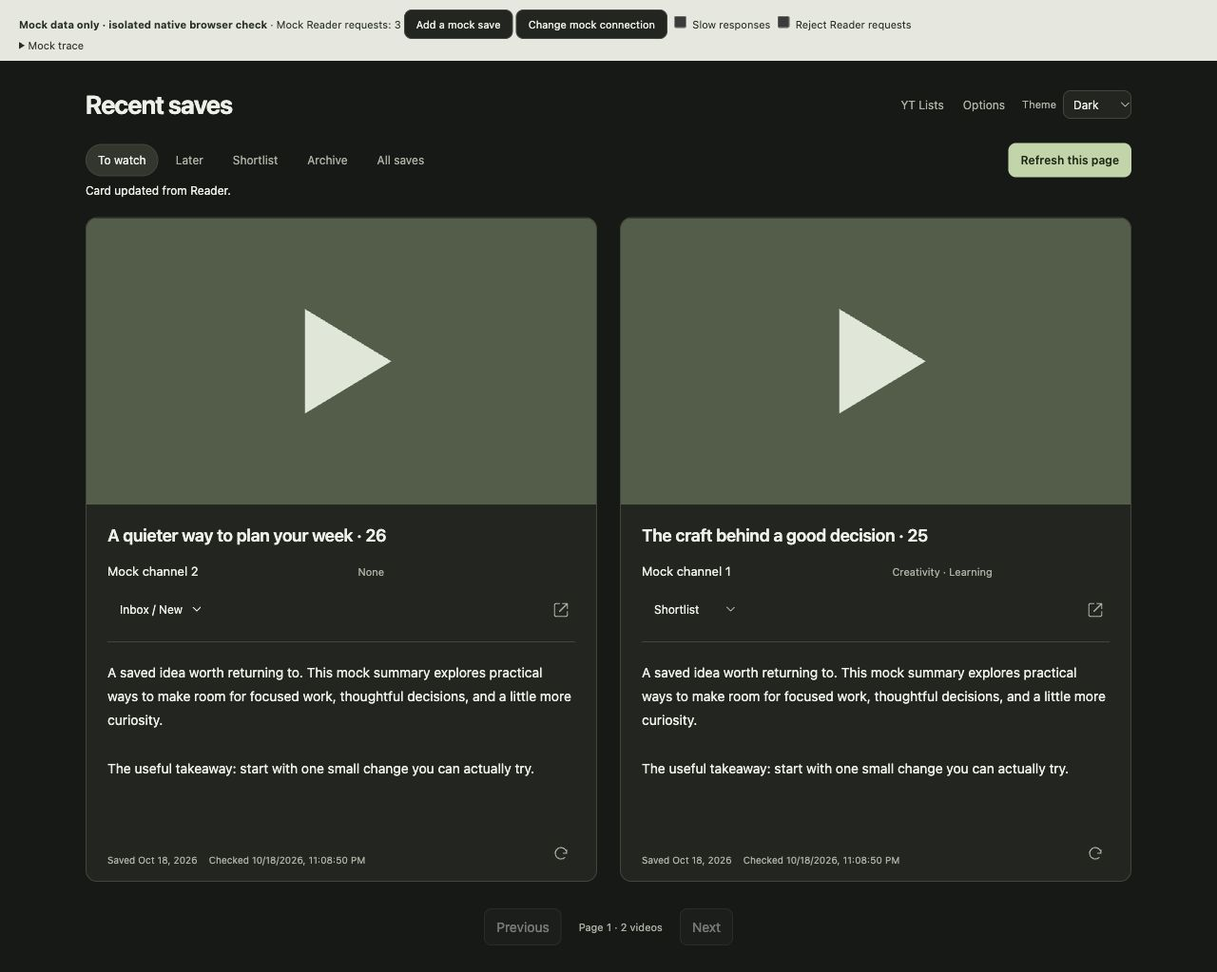
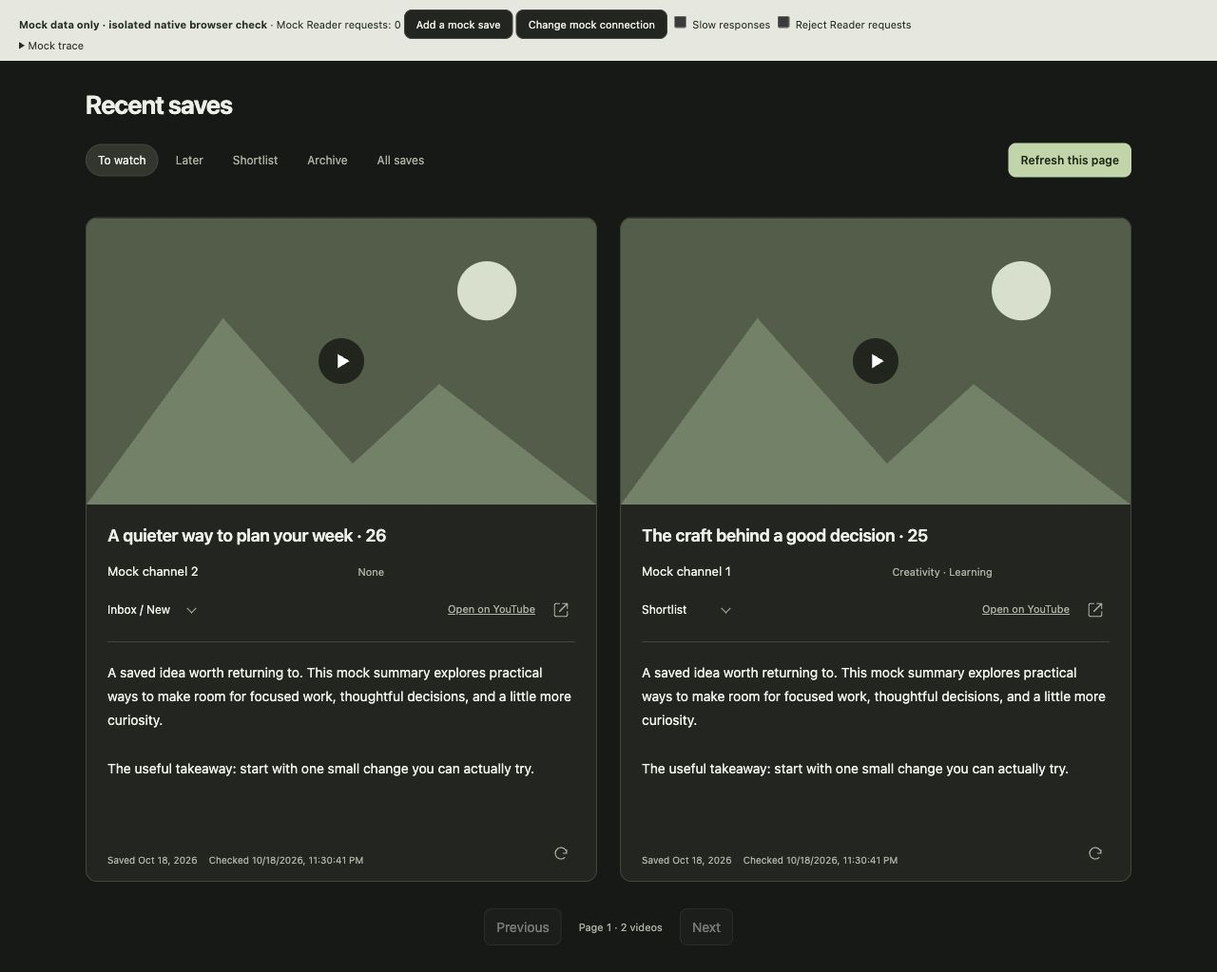
Trial click-to-load players and simplify Recent saves header

diff --git a/watch.js b/watch.js
@@ -41,6 +41,7 @@
     const svg = document.createElementNS('http://www.w3.org/2000/svg', 'svg'); svg.setAttribute('viewBox', '0 0 24 24'); svg.setAttribute('aria-hidden', 'true');
     const path = document.createElementNS('http://www.w3.org/2000/svg', 'path'); path.setAttribute('d', commands); svg.append(path); parent.append(svg);
   };
+  const player = globalThis.MVSWatchPlayer.create({ announce });
   const controls = () => {
     $('refresh').disabled = refreshing || pending.size > 0 || Boolean(deletion);
     $('refresh').textContent = refreshing ? 'Refreshing…' : 'Refresh this page';
@@ -51,10 +52,10 @@
   };
   const makeRow = item => {
     const card = node('article', '', null, 'video'); card.dataset.url = item.videoUrl;
-    const thumbnailLink = node('a', '', card, 'thumbnail-link');
-    thumbnailLink.href = item.videoUrl; thumbnailLink.target = '_blank'; thumbnailLink.rel = 'noopener noreferrer'; thumbnailLink.tabIndex = -1;
-    const image = node('img', '', thumbnailLink, 'thumbnail'); image.alt = ''; image.loading = 'lazy'; image.decoding = 'async'; image.width = 480; image.height = 270;
+    const mediaBox = node('div', '', card, 'video-media'), thumbnailButton = node('button', '', mediaBox, 'thumbnail-button'); thumbnailButton.type = 'button';
+    const image = node('img', '', thumbnailButton, 'thumbnail'); image.alt = ''; image.loading = 'lazy'; image.decoding = 'async'; image.width = 480; image.height = 270;
     image.referrerPolicy = 'no-referrer'; image.src = `https://i.ytimg.com/vi/${encodeURIComponent(new URL(item.videoUrl).searchParams.get('v'))}/mqdefault.jpg`;
+    const playPrompt = node('span', '', thumbnailButton, 'play-prompt'); playPrompt.setAttribute('aria-hidden', 'true'); icon(playPrompt, 'm9 6 10 6-10 6Z');
     const copy = node('div', '', card, 'video-copy'), heading = node('h2', '', copy), link = node('a', '', heading);
     link.href = item.videoUrl; link.target = '_blank'; link.rel = 'noopener noreferrer';
     const metadata = node('dl', '', copy, 'metadata');
@@ -67,8 +68,12 @@
     for (const [value, label] of Object.entries(C.locations)) { const option = node('option', label, move); option.value = value; }
     const removeGroup = node('optgroup', '', move); removeGroup.label = 'Remove document';
     const trash = node('option', 'Trash…', removeGroup, 'trash-option'); trash.value = 'trash';
-    const readerLink = node('a', '', locationRow, 'reader-link'); readerLink.target = '_blank'; readerLink.rel = 'noopener noreferrer'; readerLink.title = 'Open in Reader';
+    const locationActions = node('div', '', locationRow, 'location-actions');
+    const youtubeLink = node('a', 'Open on YouTube', locationActions, 'youtube-link'); youtubeLink.href = item.videoUrl; youtubeLink.target = '_blank'; youtubeLink.rel = 'noopener noreferrer';
+    const readerLink = node('a', '', locationActions, 'reader-link'); readerLink.target = '_blank'; readerLink.rel = 'noopener noreferrer'; readerLink.title = 'Open in Reader';
     icon(readerLink, 'M14 3h7v7M10 14 21 3M10 3H5a2 2 0 0 0-2 2v14a2 2 0 0 0 2 2h14a2 2 0 0 0 2-2v-5');
+    const closePlayer = node('button', '', locationActions, 'player-close'); closePlayer.type = 'button'; closePlayer.title = 'Close player'; closePlayer.setAttribute('aria-label', 'Close YouTube player'); closePlayer.hidden = true;
+    icon(closePlayer, 'm6 6 12 12M6 18 18 6');
     const summary = node('p', '', copy, 'summary-text');
     const footer = node('div', '', copy, 'card-footer'), footerDetails = node('div', '', footer, 'footer-details');
     const note = node('p', '', footerDetails, 'row-status'); note.setAttribute('role', 'status');
@@ -82,15 +87,24 @@
       else if (destination) void mutate(item.videoUrl, destination);
     });
     refresh.addEventListener('click', () => void refreshCard(item.videoUrl));
-    return { card, link, channel, tags, date, checked, placeholder, summary, move, readerLink, refresh, note };
+    thumbnailButton.addEventListener('click', () => {
+      const current = items.find(row => row.videoUrl === item.videoUrl); if (!current || !loaded || deletion) return;
+      player.open({ videoUrl: current.videoUrl, title: current.title, host: mediaBox, trigger: thumbnailButton, close: closePlayer });
+    });
+    closePlayer.addEventListener('click', () => player.clear({ focus: true }));
+    closePlayer.addEventListener('keydown', event => { if (event.key === 'Escape') { event.preventDefault(); player.clear({ focus: true }); } });
+    return { card, link, channel, tags, date, checked, placeholder, summary, move, readerLink, refresh, note, thumbnailButton, youtubeLink };
   };
   const render = () => {
     const order = items.map(item => item.videoUrl);
+    player.keep(order);
     for (const url of rows.keys()) if (!order.includes(url)) rows.delete(url);
     const cards = [];
     for (const item of items) {
       let row = rows.get(item.videoUrl); if (!row) { row = makeRow(item); rows.set(item.videoUrl, row); }
       row.link.textContent = item.title || `YouTube video · ${new URL(item.videoUrl).searchParams.get('v')}`;
+      row.thumbnailButton.setAttribute('aria-label', `Load YouTube player for ${item.title || 'video'}`); row.thumbnailButton.title = 'Load YouTube player';
+      row.youtubeLink.setAttribute('aria-label', `Open ${item.title || 'video'} on YouTube`);
       row.channel.textContent = item.author || 'Not retained';
       const tags = Array.isArray(item.tags) ? W.tags(item.tags) : null;
       row.tags.textContent = tags ? tags.length ? tags.slice(0, 3).join(' · ') + (tags.length > 3 ? ` +${tags.length - 3}` : '') : 'None' : 'Not fetched';
@@ -115,7 +129,10 @@
       row.note.textContent = pending.has(item.videoUrl) ? 'Working…' : errors.get(item.videoUrl) || (!item.readerId ? 'Reader ID not retained; open the video page to link it.' : '');
       row.note.dataset.error = String(errors.has(item.videoUrl)); cards.push(row.card);
     }
-    if (Array.from(grid.children).map(n => n.dataset.url).join('|') !== order.join('|')) grid.replaceChildren(...cards);
+    if (Array.from(grid.children).map(n => n.dataset.url).join('|') !== order.join('|')) {
+      // Reparenting an iframe can restart navigation. Unmount before reordering.
+      player.clear(); grid.replaceChildren(...cards);
+    }
     grid.hidden = loaded && items.length === 0; $('empty').hidden = !loaded || items.length > 0;
     grid.setAttribute('aria-busy', String(!loaded)); controls();
   };
@@ -128,7 +145,7 @@
     if (clearStatus && !refreshing && pending.size === 0 && !deletion) announce('');
   };
   const reloadLocal = () => { clearTimeout(reloadTimer); reloadTimer = setTimeout(() => { if (!refreshing && !pending.size && !deletion) void load(); }, 100); };
-  const changePage = () => { refreshRequest++; refreshing = false; loaded = false; render(); void load({ clearStatus: true }); };
+  const changePage = () => { player.clear(); refreshRequest++; refreshing = false; loaded = false; render(); void load({ clearStatus: true }); };
   const refreshCard = async url => {
     const item = items.find(row => row.videoUrl === url);
     if (!item?.readerId || !loaded || refreshing || pending.size || deletion) return;
@@ -189,7 +206,7 @@
       else errors.delete(item.videoUrl);
     }
     if (request !== refreshRequest) return;
-    refreshing = false; await load(); announce(failure ? messageFor(failure) : count ? 'This page is up to date with Reader.' : 'No linked Reader IDs on this page. Open a video page to link an older save.', Boolean(failure));
+    refreshing = false; await load(); announce(failure ? messageFor(failure) : count ? `Checked ${count} video${count === 1 ? '' : 's'} in Reader.` : 'No linked Reader IDs on this page. Open a video page to link an older save.', Boolean(failure));
   });
   for (const [value, label] of Object.entries(W.filters)) {
     const button = node('button', label, $('filters')); button.type = 'button'; button.dataset.filter = value;
@@ -197,10 +214,9 @@
   }
   $('previous').addEventListener('click', () => { if (cursors.length > 1) { cursors.pop(); changePage(); } });
   $('next').addEventListener('click', () => { if (nextCursor) { cursors.push(nextCursor); changePage(); } });
-  const applyTheme = () => { document.documentElement.dataset.theme = theme === 'system' ? media.matches ? 'dark' : 'light' : theme; $('theme').value = theme; };
+  const applyTheme = () => { document.documentElement.dataset.theme = theme === 'system' ? media.matches ? 'dark' : 'light' : theme; };
   media.addEventListener('change', applyTheme);
   chrome.storage.local.get({ readerPanelTheme: 'system' }, data => { theme = ['system', 'dark', 'light'].includes(data.readerPanelTheme) ? data.readerPanelTheme : 'system'; applyTheme(); });
-  $('theme').addEventListener('change', () => chrome.storage.local.set({ readerPanelTheme: $('theme').value }));
   chrome.storage.onChanged.addListener((changes, area) => {
     if (area !== 'local') return;
     if (changes.readerPanelTheme) { theme = ['system', 'dark', 'light'].includes(changes.readerPanelTheme.newValue) ? changes.readerPanelTheme.newValue : 'system'; applyTheme(); }

diff --git a/watch.css b/watch.css
@@ -9,15 +9,11 @@ button,select{color:var(--text);background:var(--surface);border:1px solid var(-
 button,select{cursor:pointer}
 button:disabled,select:disabled{opacity:.45;cursor:default}
 button:focus-visible,a:focus-visible,select:focus-visible{outline:2px solid var(--focus);outline-offset:3px}
-button:not(:disabled):hover,a.quiet:hover{filter:brightness(.94)}
+button:not(:disabled):hover{filter:brightness(.94)}
 a{color:inherit}
-a.quiet{text-decoration:none;padding:6px 2px;color:var(--muted)}
 .watch-app{max-width:1160px;margin:auto;padding:30px 30px 28px}
 .page-header{display:flex;align-items:center;justify-content:space-between;gap:20px;margin-bottom:24px}
 h1{font-size:27px;letter-spacing:-.035em;line-height:1.2;margin:0;font-weight:650}
-.header-actions{display:flex;align-items:center;gap:16px;flex-shrink:0;font-size:12px}
-.theme-label{display:flex;gap:7px;align-items:center;font-size:11px;color:var(--muted)}
-.theme-label select{font-size:12px;padding:6px}
 .toolbar{display:flex;align-items:center;justify-content:space-between;gap:14px;flex-wrap:wrap}
 .filters{display:flex;gap:5px;flex-wrap:wrap}
 .filters button{background:transparent;border-color:transparent;color:var(--muted);border-radius:20px;padding:7px 12px;font-size:12px}
@@ -28,7 +24,12 @@ h1{font-size:27px;letter-spacing:-.035em;line-height:1.2;margin:0;font-weight:65
 #status[data-error=true],.row-status[data-error=true],.dialog-status[data-error=true]{color:var(--error)}
 .videos{display:grid;grid-template-columns:repeat(2,minmax(0,1fr));gap:28px 24px;align-items:start;min-height:180px}
 .video{background:var(--surface);border:1px solid var(--line);border-radius:12px;overflow:hidden;min-width:0}
-.thumbnail-link{display:block}
+.video-media{position:relative;aspect-ratio:16/9;background:var(--chip)}
+.thumbnail-button{display:block;width:100%;border:0;border-radius:0;padding:0;background:transparent}
+.thumbnail-button:focus-visible{outline-offset:-4px}
+.video-media iframe{position:absolute;inset:0;width:100%;height:100%;border:0}
+.play-prompt{position:absolute;inset:0;display:grid;place-items:center;pointer-events:none}
+.play-prompt svg{width:48px;height:48px;padding:9px;border-radius:50%;background:#0009;fill:#fff}
 .thumbnail{display:block;width:100%;height:auto;aspect-ratio:16/9;object-fit:cover;background:var(--chip)}
 .video-copy{padding:20px 22px 14px}
 .video h2{font-size:18px;line-height:1.4;font-weight:600;letter-spacing:-.015em;margin:0 0 15px;overflow-wrap:anywhere}
@@ -39,10 +40,13 @@ h1{font-size:27px;letter-spacing:-.035em;line-height:1.2;margin:0;font-weight:65
 .metadata dd{margin:0;overflow-wrap:anywhere}
 .metadata .channel-name{font-size:13px;color:var(--text)}
 .location-row{display:flex;align-items:center;justify-content:space-between;gap:12px;padding-bottom:18px;border-bottom:1px solid var(--line)}
-.location-row label{display:flex;gap:9px;align-items:center;font-size:11px;color:var(--muted);min-width:0}
-.location-row select{font-size:12px;padding:6px 8px;max-width:200px;min-width:100px;background:transparent;border-color:transparent}
+.location-row label{position:relative;display:flex;align-items:center;font-size:11px;color:var(--muted);min-width:0}
+.location-row label::after{content:'';position:absolute;right:8px;top:calc(50% - 4px);width:6px;height:6px;border-right:1px solid currentColor;border-bottom:1px solid currentColor;transform:rotate(45deg);pointer-events:none}
+.location-row select{appearance:none;-webkit-appearance:none;font-size:12px;padding:6px 26px 6px 0;max-width:200px;min-width:100px;background:transparent;border-color:transparent;border-left-width:0;border-right-width:0;text-indent:0}
 .location-row select:hover:not(:disabled){background:var(--chip);border-color:var(--line)}
 .location-row select:focus-visible{background:var(--chip)}
+.location-actions{display:flex;align-items:center;gap:4px;flex-shrink:0}
+.youtube-link{font-size:11px;color:var(--muted);white-space:nowrap;padding:6px}
 .trash-option{color:var(--error)}
 .summary-text{font-size:14px;line-height:1.8;white-space:pre-wrap;overflow-wrap:anywhere;margin:19px 0 12px;min-height:76px}
 .summary-text[data-empty=true]{color:var(--muted);font-size:13px}
@@ -51,9 +55,9 @@ h1{font-size:27px;letter-spacing:-.035em;line-height:1.2;margin:0;font-weight:65
 .footer-meta{display:flex;flex-wrap:wrap;align-content:end;column-gap:12px;height:32px;overflow:auto;font-size:10px;line-height:16px;color:var(--muted)}
 .footer-meta>*{overflow-wrap:anywhere}
 .row-status{font-size:11px;line-height:16px;color:var(--muted);margin:0;height:48px;overflow:auto;min-width:0;align-content:end}
-.card-refresh,.reader-link{flex-shrink:0;display:grid;place-items:center;width:32px;height:32px;padding:7px;color:var(--muted);background:transparent;border:1px solid transparent;border-radius:8px}
-.card-refresh:hover:not(:disabled),.reader-link:hover{background:var(--chip)}
-.card-refresh svg,.reader-link svg{display:block;width:18px;height:18px;fill:none;stroke:currentColor;stroke-width:1.6;stroke-linecap:round;stroke-linejoin:round}
+.card-refresh,.reader-link,.player-close{flex-shrink:0;display:grid;place-items:center;width:32px;height:32px;padding:7px;color:var(--muted);background:transparent;border:1px solid transparent;border-radius:8px}
+.card-refresh:hover:not(:disabled),.reader-link:hover,.player-close:hover{background:var(--chip)}
+.card-refresh svg,.reader-link svg,.player-close svg{display:block;width:18px;height:18px;fill:none;stroke:currentColor;stroke-width:1.6;stroke-linecap:round;stroke-linejoin:round}
 .pagination{display:flex;align-items:center;justify-content:center;gap:18px;margin-top:28px}
 .pagination span{font-size:11px;color:var(--muted)}
 .empty{min-height:260px;padding:56px 24px;text-align:center;border:1px dashed var(--line);border-radius:12px;color:var(--muted)}
@@ -72,8 +76,8 @@ dialog h2{font-size:20px;margin:0 0 16px}
 .destructive{background:var(--error);color:var(--surface);border-color:transparent}
 @media(max-width:740px){
  .watch-app{padding:22px 16px}.page-header{align-items:flex-start;gap:16px;flex-direction:column;margin-bottom:20px}
- .header-actions{gap:16px}.videos{grid-template-columns:minmax(0,1fr);gap:22px}h1{font-size:25px}
+ .videos{grid-template-columns:minmax(0,1fr);gap:22px}h1{font-size:25px}
  .toolbar{gap:10px}.filters{gap:1px}.filters button{padding:6px 9px}.notice-area{height:48px}
  .video-copy{padding:18px 18px 12px}.video h2{font-size:17px}.location-row{gap:8px}.location-row label{gap:7px}
 }
-@media(max-width:360px){.metadata{gap:8px}.header-actions{gap:12px}}
+@media(max-width:360px){.metadata{gap:8px}.location-row{align-items:flex-start;flex-direction:column}}

diff --git a/tests/watch-player.test.js b/tests/watch-player.test.js
@@ -1,0 +1,67 @@
+const test = require('node:test');
+const assert = require('node:assert/strict');
+const vm = require('node:vm');
+const fs = require('node:fs');
+const path = require('node:path');
+const A = 'https://www.youtube.com/watch?v=alpha', B = 'https://www.youtube.com/watch?v=beta';
+class Events {
+  listeners = new Map();
+  addEventListener(type, fn) { const rows = this.listeners.get(type) || []; rows.push(fn); this.listeners.set(type, rows); }
+  removeEventListener(type, fn) { this.listeners.set(type, (this.listeners.get(type) || []).filter(row => row !== fn)); }
+  emit(type) { for (const fn of this.listeners.get(type) || []) fn(); }
+}
+function fixture() {
+  const document = new Events(), window = new Events(), created = [], status = [];
+  document.hidden = false;
+  const element = tag => Object.assign(new Events(), { tag, hidden: false, isConnected: true, children: [], width: 480, height: 270,
+    append(child) { child.parent = this; this.children.push(child); },
+    remove() { if (this.parent) this.parent.children = this.parent.children.filter(child => child !== this); this.parent = null; this.isConnected = false; },
+    getBoundingClientRect() { return { width: this.width, height: this.height }; },
+    focus() { document.activeElement = this; },
+  });
+  document.createElement = tag => { const row = element(tag); created.push(row); return row; };
+  const context = vm.createContext({ document, window, URL });
+  for (const file of ['reader-core.js', 'watch-player.js']) vm.runInContext(fs.readFileSync(path.join(__dirname, '..', file), 'utf8'), context);
+  const player = context.MVSWatchPlayer.create({ document, window, announce: (...args) => status.push(args) });
+  const target = (videoUrl = A) => ({ videoUrl, title: 'A saved video', host: element('div'), trigger: element('button'), close: Object.assign(element('button'), { hidden: true }) });
+  return { document, window, player, target, created, status, mounted: () => created.filter(row => row.parent) };
+}
+
+test('no player is created until explicit open; one native iframe has no autoplay or remote parent API', () => {
+  const f = fixture(), a = f.target(); assert.equal(f.created.length, 0);
+  assert.equal(f.player.open(a), true); const frame = f.mounted()[0], url = new URL(frame.src);
+  assert.equal(f.mounted().length, 1); assert.equal(frame.tag, 'iframe'); assert.equal(url.origin, 'https://www.youtube.com'); assert.equal(url.pathname, '/embed/alpha');
+  assert.equal(url.searchParams.get('autoplay'), '0'); assert.equal(url.searchParams.has('origin'), false); assert.equal(url.searchParams.has('enablejsapi'), false);
+  assert.equal(frame.referrerPolicy, 'strict-origin-when-cross-origin'); assert.equal(frame.title, 'YouTube player: A saved video');
+  assert.equal(a.trigger.hidden, true); assert.equal(a.close.hidden, false); assert.equal(f.document.activeElement, frame);
+});
+
+test('switching videos unmounts the previous frame; close returns focus to its own thumbnail', () => {
+  const f = fixture(), a = f.target(), b = f.target(B); f.player.open(a); const old = f.mounted()[0];
+  f.player.open(b); assert.equal(f.mounted().length, 1); assert.equal(old.parent, null); assert.equal(a.trigger.hidden, false); assert.equal(a.close.hidden, true);
+  assert.equal(f.player.currentUrl(), B); f.player.clear({ focus: true }); assert.equal(f.document.activeElement, b.trigger);
+  assert.equal(f.mounted().length, 0); assert.equal(b.trigger.hidden, false); assert.equal(b.close.hidden, true);
+});
+
+test('local redraw keeps a matching player; paging/filter removal, hidden page and pagehide unload it without automatic restoration', () => {
+  const f = fixture(), a = f.target(); f.player.open(a); const frame = f.mounted()[0];
+  f.player.keep([A, B]); assert.equal(f.mounted()[0], frame); f.player.keep([B]); assert.equal(f.mounted().length, 0);
+  f.player.open(a); f.document.hidden = true; f.document.emit('visibilitychange'); assert.equal(f.mounted().length, 0);
+  f.document.hidden = false; f.document.emit('visibilitychange'); assert.equal(f.mounted().length, 0);
+  f.player.open(a); f.window.emit('pagehide'); assert.equal(f.mounted().length, 0);
+});
+
+test('undersized or hidden targets do not start network; shrinking an active frame restores thumbnail and fallback feedback', () => {
+  const f = fixture(), a = f.target(); a.host.height = 199;
+  assert.equal(f.player.open(a), false); assert.equal(f.created.length, 0); assert.match(f.status.at(-1)[0], /Open on YouTube/);
+  a.host.height = 270; f.document.hidden = true; assert.equal(f.player.open(a), false); assert.equal(f.created.length, 0);
+  f.document.hidden = false; f.player.open(a); a.host.width = 199; f.window.emit('resize'); assert.equal(f.mounted().length, 0);
+});
+
+test('invalid URLs and detached targets are rejected, while stale frame errors cannot affect a later player', () => {
+  const f = fixture(), invalid = f.target('https://evil.test/watch?v=alpha'); assert.equal(f.player.open(invalid), false); assert.equal(f.created.length, 0);
+  invalid.videoUrl = A; invalid.host.isConnected = false; assert.equal(f.player.open(invalid), false);
+  const a = f.target(), b = f.target(B); f.player.open(a); const old = f.mounted()[0]; f.player.open(b); old.emit('error'); assert.equal(f.player.currentUrl(), B);
+  f.mounted()[0].emit('error'); assert.equal(f.player.currentUrl(), null); assert.equal(f.document.activeElement, b.trigger); assert.match(f.status.at(-1)[0], /could not be loaded/);
+  f.player.destroy(); assert.equal(f.window.listeners.get('resize').length, 0); assert.equal(f.document.listeners.get('visibilitychange').length, 0);
+});

diff --git a/watch-player.js b/watch-player.js
@@ -1,0 +1,49 @@
+/* One explicit, cross-origin player. No credentials, remote parent scripts or messages. */
+(() => {
+  const create = ({ document = globalThis.document, window = globalThis.window, announce = () => {} } = {}) => {
+    let active = null;
+    const fits = host => {
+      const bounds = host.getBoundingClientRect();
+      return bounds.width >= 200 && bounds.height >= 200;
+    };
+    const clear = ({ focus = false } = {}) => {
+      if (!active) return;
+      const previous = active; active = null;
+      previous.frame.remove(); previous.trigger.hidden = false; previous.close.hidden = true;
+      if (focus && previous.trigger.isConnected) previous.trigger.focus();
+    };
+    const open = target => {
+      const { videoUrl, title, host, trigger, close } = target;
+      if (globalThis.MVSReaderCore.canonical(videoUrl) !== videoUrl || !host.isConnected || document.hidden) return false;
+      clear();
+      if (!fits(host)) { announce('The player needs more space. Open on YouTube instead.', true); return false; }
+      const frame = document.createElement('iframe');
+      frame.title = `YouTube player: ${title || 'saved video'}`;
+      frame.referrerPolicy = 'strict-origin-when-cross-origin';
+      frame.src = `https://www.youtube.com/embed/${encodeURIComponent(new URL(videoUrl).searchParams.get('v'))}?autoplay=0&playsinline=1`;
+      active = { videoUrl, frame, host, trigger, close };
+      trigger.hidden = true; close.hidden = false;
+      frame.addEventListener('error', () => {
+        if (active?.frame !== frame) return;
+        clear({ focus: true }); announce('The player could not be loaded. Open on YouTube instead.', true);
+      });
+      host.append(frame); frame.focus();
+      // A cross-origin load event cannot establish playback or detect YouTube error 153.
+      announce('YouTube player opened.');
+      return true;
+    };
+    const keep = urls => { if (active && !urls.includes(active.videoUrl)) clear(); };
+    const hide = () => { if (document.hidden) clear(); };
+    const resize = () => {
+      if (!active || fits(active.host)) return;
+      const focus = document.activeElement === active.frame || document.activeElement === active.close;
+      clear({ focus }); announce('The player needs more space. Open on YouTube instead.', true);
+    };
+    const leave = () => clear();
+    document.addEventListener('visibilitychange', hide);
+    window.addEventListener('pagehide', leave); window.addEventListener('resize', resize);
+    return { open, clear, keep, currentUrl: () => active?.videoUrl || null,
+      destroy() { clear(); document.removeEventListener('visibilitychange', hide); window.removeEventListener('pagehide', leave); window.removeEventListener('resize', resize); } };
+  };
+  globalThis.MVSWatchPlayer = { create };
+})();

diff --git a/watch.html b/watch.html
@@ -5,7 +5,6 @@
   <main class="watch-app">
     <header class="page-header">
       <h1>Recent saves</h1>
-      <div class="header-actions"><a class="quiet" href="feed.html">YT Lists</a><a class="quiet" href="options.html">Options</a><label class="theme-label">Theme<select id="theme"><option value="system">System</option><option value="light">Light</option><option value="dark">Dark</option></select></label></div>
     </header>
     <section class="toolbar" aria-label="Recent saves controls"><div id="filters" class="filters" role="group" aria-label="Saved video views"></div><button id="refresh" class="primary" type="button">Refresh this page</button></section>
     <div class="notice-area"><p id="status" role="status" aria-live="polite">Loading your saved videos…</p></div>
@@ -14,5 +13,5 @@
     <nav class="pagination" aria-label="Recent saves pages"><button id="previous" type="button" disabled>Previous</button><span id="page-label">Page 1</span><button id="next" type="button" disabled>Next</button></nav>
   </main>
   <dialog id="deletion" aria-labelledby="delete-heading" aria-describedby="delete-effects"><form method="dialog"><p class="eyebrow">Reader document</p><h2 id="delete-heading">Delete from Reader?</h2><p id="delete-title" class="delete-title"></p><p id="delete-identity" class="identity"></p><p id="delete-effects">This deletes the Reader document, including its highlights and notes. The extension cannot undo it. Unsaved note drafts in other tabs stay there; copy them before reloading or closing those tabs.</p><p id="delete-status" class="dialog-status" role="status" aria-live="polite"></p><div class="dialog-actions"><button id="cancel-delete" type="button" autofocus>Cancel</button><button id="confirm-delete" class="destructive" type="button">Delete document</button></div></form></dialog>
-  <script src="reader-core.js"></script><script src="reader-watch-core.js"></script><script src="watch.js"></script>
+  <script src="reader-core.js"></script><script src="reader-watch-core.js"></script><script src="watch-player.js"></script><script src="watch.js"></script>
 </body></html>

diff --git a/README.md b/README.md
@@ -146,7 +146,7 @@ For Refresh, add `action=refresh`; `outcome=unauthorized` simulates a rejected r
 
 ## Recent saves
 
-Open **Recent saves** from the Reader panel’s More menu, the YT Lists sidebar, or Options. It collects videos saved through the extension, newest first, with **12 cards per page**, large 16:9 lazy thumbnails, full cached summaries expanded inline, and links to YouTube/Reader. Desktop uses two substantial cards side by side, with one column on narrow screens. Each card shows its title, a slightly larger channel name and compact tags without visible field labels. The flat native location selector keeps its arrow, hover/focus treatment and accessible name; Open in Reader is an icon with a tooltip. Saved date and Checked sit together at the bottom left, with refresh at the bottom right and reserved feedback space. There are no summary disclosures, video embeds or autoplay. System/Light/Dark follows the existing Reader theme preference.
+Open **Recent saves** from the Reader panel’s More menu, the YT Lists sidebar, or Options. It collects videos saved through the extension, newest first, with **12 cards per page**, large 16:9 lazy thumbnails, full cached summaries expanded inline, and links to YouTube/Reader. Desktop uses two substantial cards side by side, with one column on narrow screens. Each card shows its title, a slightly larger channel name and compact tags without visible field labels. The flat native location selector keeps a decorative arrow, hover/focus treatment and accessible name; its visible text aligns with the title/channel edge rather than retaining native internal padding; Open in Reader is an icon with a tooltip. Saved date and Checked sit together at the bottom left, with refresh at the bottom right and reserved feedback space. There are no summary disclosures or top-right navigation/theme controls. System/Light/Dark still follows the existing Reader preference, adjusted in Options elsewhere. Clicking a thumbnail deliberately loads a single inline YouTube player with autoplay off; **Open on YouTube** remains available. This is a bounded trial: live extension-origin playback is not yet verified.
 
 - **To watch** includes last-known Inbox/New, Later, Shortlist, and unknown locations. Verified Archive, Feed, missing and deleted documents are excluded. **Later**, **Shortlist**, **Archive**, and **All saves** offer separate views. All saves includes missing matches with an explicit label, but excludes confirmed deletions. “Library” is a Reader grouping, not a location value.
 - This is extension-owned save history, **not an import of Reader history**. One-time migration preserves only retained local YouTube save flags and their known IDs. Merely opening an externally saved document does not add it. Existing flags have an older 2,000-entry cap, so already-discarded saves cannot be reconstructed. Older entries may lack titles or Reader IDs; the UI says so. Link those on the video page using the existing manual Reader lookup. Recent saves itself never scans the Reader library, saves on opening, or fetches YouTube metadata while browsing.
@@ -157,8 +157,8 @@ Open **Recent saves** from the Reader panel’s More menu, the YT Lists sidebar,
 
 `tests/reader-watch.test.js` exercises the actual store with pinned `fake-indexeddb` and the worker/service with synthetic Reader fixtures. It covers migration/deduplication, history beyond 2,000 entries, bounded pagination/summary eviction, filters, exact-ID refresh, stale responses, budgets/429, verified moves/deletion, credential changes, trusted senders, quota failures and partial save success. Existing playback, save, note-draft and SPA regression tests run in the same suite.
 
-For an isolated browser check, run `node tests/watch-browser-fixture.cjs`, serve only `output/watch-browser` on loopback, and open `index.html`. This runs the actual page, background bridge, Reader service and native browser IndexedDB with synthetic data and no real credentials. The fixture blocks outbound connections/link navigation and substitutes local thumbnail artwork. Its controls simulate new saves, slow responses and rejected requests; `?mode=empty` and `?mode=unlinked` cover those states; `?mode=layout` supplies two verified cards for the layout previews. The fixture deletes only its own named synthetic database when loaded. [Recorded checks and limits](docs/watch-list-native-checks.md).
+For an isolated browser check, run `node tests/watch-browser-fixture.cjs`, serve only `output/watch-browser` on loopback, and open `index.html`. This runs the actual page, background bridge, Reader service and native browser IndexedDB with synthetic data and no real credentials. The fixture blocks outbound connections/link navigation, substitutes local thumbnail artwork, and replaces YouTube frames with local synthetic players under a fixture-only self-frame CSP. Its controls simulate new saves, slow responses and rejected requests; `?mode=empty` and `?mode=unlinked` cover those states; `?mode=layout` supplies two verified cards for the layout previews. The fixture deletes only its own named synthetic database when loaded. [Recorded checks and limits](docs/watch-list-native-checks.md).
 
 ![Recent saves using isolated mock data](docs/recent-saves-desktop-mock.jpg)
 
-Click-to-load embeds were assessed but are not implemented. [Feasibility and tradeoffs](docs/recent-saves-embed-feasibility.md) cover the existing CSP, bounded player loading, YouTube client identification and fallback needs.
+The [click-to-load trial and validation limits](docs/recent-saves-embed-feasibility.md) cover one-player loading, teardown, the unchanged production CSP/permissions, YouTube identification and fallback needs. Player frames unload on page/filter changes, card removal/reordering, page hiding/pagehide, or insufficient space. Metadata-only redraws preserve the active player. No player is restored automatically. `tests/watch-player.test.js` checks this lifecycle independently of Reader.

diff --git a/docs/recent-saves-embed-feasibility.md b/docs/recent-saves-embed-feasibility.md
@@ -1,11 +1,11 @@
-# Click-to-load YouTube embeds: feasibility
+# Click-to-load trial and validation limits
 
-**Conditionally viable; not implemented in PR #12.** Keep the current thumbnail until an explicit “Load player” action, create only one iframe, and remove it on replacement/page/filter changes. This preserves zero player startup work while browsing. A loaded player still costs network/memory. With `autoplay=0`, loading and pressing Play are separate user actions. [YouTube supports a plain iframe and this parameter](https://developers.google.com/youtube/player_parameters).
+PR #12 now includes a bounded trial. Thumbnails remain until an explicit pointer/keyboard activation creates one player iframe per Recent saves page. Loading another video removes the old frame. Close returns focus to the matching thumbnail; pages/filters, card removal/reordering, hiding/pagehide and undersized layouts unload it. Nothing restores a player automatically. Metadata refreshes preserve the same frame instead of reparenting it and restarting its requests.
 
-The current manifest has no custom CSP, frame-src restriction, or embed-related permission change. A basic cross-origin YouTube iframe appears compatible with the [default extension CSP](https://developer.chrome.com/docs/extensions/reference/manifest/content-security-policy); this is an architectural inference, not an installed-extension playback test. Keep all parent-page code packaged locally rather than loading the remote IFrame API script into the extension page. Reader credentials and messages must stay outside the player. No CSP, security setting, permission or header-rewriting changes are proposed.
+The URL uses the canonical video ID and `autoplay=0&playsinline=1`. Loading the player and pressing Play are separate actions. Frames require at least 200×200 usable pixels; smaller cards keep the thumbnail and Open on YouTube link. These choices follow [YouTube's iframe, autoplay and size guidance](https://developers.google.com/youtube/player_parameters). There is no remote IFrame API script in the extension page, no frame message bridge, and no Reader credentials in the player. No identification is fabricated: the browser's normal `strict-origin-when-cross-origin` referrer policy is used. Production extension permissions and CSP are unchanged.
 
-The main unresolved constraint is client identification. [YouTube requires a Referer or supported equivalent](https://developers.google.com/youtube/terms/required-minimum-functionality#api-client-identity-and-credentials), and [error 153 indicates missing identification](https://developers.google.com/youtube/iframe_api_reference#onError). An extension-origin page must be tested in a separate extension profile: a successful localhost embed would not prove this works. If the installed extension cannot identify itself under existing permissions, retain Open on YouTube rather than adding header permissions, relaxing CSP, or inventing a referrer.
+**Live extension-origin playback is unverified.** The available tool surfaces expose only the in-app browser and MCP Apps, without an isolated extension-loading capability. Mock native iframe/focus/lifecycle tests passed, but those cannot establish live playback. A frame opening/loading is not reported as playback success.
 
-Some owners disallow embedding; unavailable/private videos need the same fallback. YouTube requires at least a 200×200 player and recommends 480×270 for 16:9: very narrow cards need a fallback or taller player. These [size requirements](https://developers.google.com/youtube/player_parameters#Overview) limit an unchanged 16:9 thumbnail replacement at small widths.
+[YouTube requires Referer/client identification](https://developers.google.com/youtube/terms/required-minimum-functionality#api-client-identity-and-credentials); [error 153 indicates missing identification](https://developers.google.com/youtube/iframe_api_reference#onError). Some owners also disallow embedding. A cross-origin frame's load event cannot reliably detect these errors. The explicit Open on YouTube fallback is therefore always present; no header rewriting, invented origin/referrer, permission additions or security relaxation is used to bypass a failure.
 
-Recommendation: keep thumbnails in this draft, then validate the one-player, no-autoplay approach in an isolated extension profile before deciding on a separate embed change. No embed or live-player test was added here.
+201 Node regressions pass, including five player lifecycle cases. Native checks used a visibly labelled synthetic frame served only on loopback; the offline fixture allows only that same-origin frame, blocks remote connections, and has no real Reader credentials. See [recorded checks](watch-list-native-checks.md). Manual playback from the existing extension remains the next validation step; keep the fallback if the account/video/client-identification path is unsupported.

diff --git a/docs/watch-list-native-checks.md b/docs/watch-list-native-checks.md
@@ -2,7 +2,7 @@
 
 Checks ran on 18 October 2026 in Codex’s isolated in-app browser. The actual page, IndexedDB store, background routing and Reader transport ran against synthetic documents and a fake in-memory HTTP adapter. No extension was installed, real Reader credentials used, or real notes/library mutated. The fixture’s CSP blocks outbound connections and substitutes local thumbnail art.
 
-The refined page has a compact **Recent saves** title, two substantial cards per desktop row, large 16:9 thumbnails, title, channel name and tags with visually hidden accessible field labels, a flat current-location dropdown containing a separate **Trash…** action, full inline summaries, and a bottom-right per-card refresh icon. Open in Reader is icon-only with a tooltip; Saved date and Checked share the bottom-left footer. It has no intro, default “Newest saves…” copy, redundant Trash button, summary disclosure, text clamp, or internal summary scroll area.
+The refined page has only a compact **Recent saves** title in the header (no YT Lists, Options or Theme controls), two substantial cards per desktop row, large 16:9 thumbnails, title, channel name and tags with visually hidden accessible field labels, a flat current-location dropdown containing a separate **Trash…** action, full inline summaries, and a bottom-right per-card refresh icon. Open in Reader is icon-only with a tooltip; Saved date and Checked share the bottom-left footer. It has no intro, default “Newest saves…” copy, redundant Trash button, summary disclosure, text clamp, or internal summary scroll area.
 
 | Check | Observed result |
 | --- | --- |
@@ -21,6 +21,12 @@ The refined page has a compact **Recent saves** title, two substantial cards per
 | Flat selector keyboard | Native menu opened with ArrowDown; Escape closed it and retained a solid visible focus outline. Resting background/border were transparent |
 | Final Trash check | Flat dropdown still opened the exact-document dialog with Cancel focused; cancellation sent no DELETE |
 | Full summary | No disclosure elements; computed maximum height `none` and overflow `visible` |
+
+The latest bounded-player pass verified zero initial iframes, keyboard Enter to load, focus entering the frame, no autoplay in the synthetic player, replacement leaving exactly one frame, Close/Enter and Close/Escape restoring the corresponding thumbnail focus, and teardown on filter/page changes. A Reader refresh kept the same mock playback state and issued no second player request; a new save reordered cards and unmounted the player without another player request. A simulated unavailable/error-153 frame retained the usable Open on YouTube link. A 390px layout fit a 356×200.25 player; below the 200×200 minimum, resize unmounted it and retained the thumbnail/fallback, with no horizontal overflow. Light/dark preference support remains active without page controls. The browser error log was empty.
+
+The visible **Later** text was verified in the rendered desktop screenshot against the title/channel edge, not only the select box. Appearance and internal leading padding were removed while retaining a native select, keyboard menu and focus outline; the content starts at x=113px in the recorded desktop layout. [Current thumbnail/alignment preview](recent-saves-desktop-mock.jpg), [single synthetic player preview](recent-saves-player-mock.jpg).
+
+Visibility/pagehide teardown is covered by the Node lifecycle fixtures. The in-app browser's background-tab operation did not change document visibility, so no native hidden-tab test is claimed. Available browser surfaces were only IAB and MCP Apps, with no extension-loading capability: **real extension-origin YouTube playback was not tested**. These mock iframe checks do not establish whether YouTube accepts the extension's client identification. No real Reader data or normal Arc browser was used. Production permissions/CSP are unchanged; the offline fixture alone permits its own same-origin synthetic frame, never a live YouTube frame.
 
 The original pass additionally checked a bounded 12-ID page refresh, new-save notifications, cancellation of the remaining slow refresh batch on page change, and empty/unlinked states. Current follow-up checks reconfirm these page controls and states. The full Node suite covers the unchanged history, paging, API budgets, quota, notes/playback and stale-target behavior.
 
